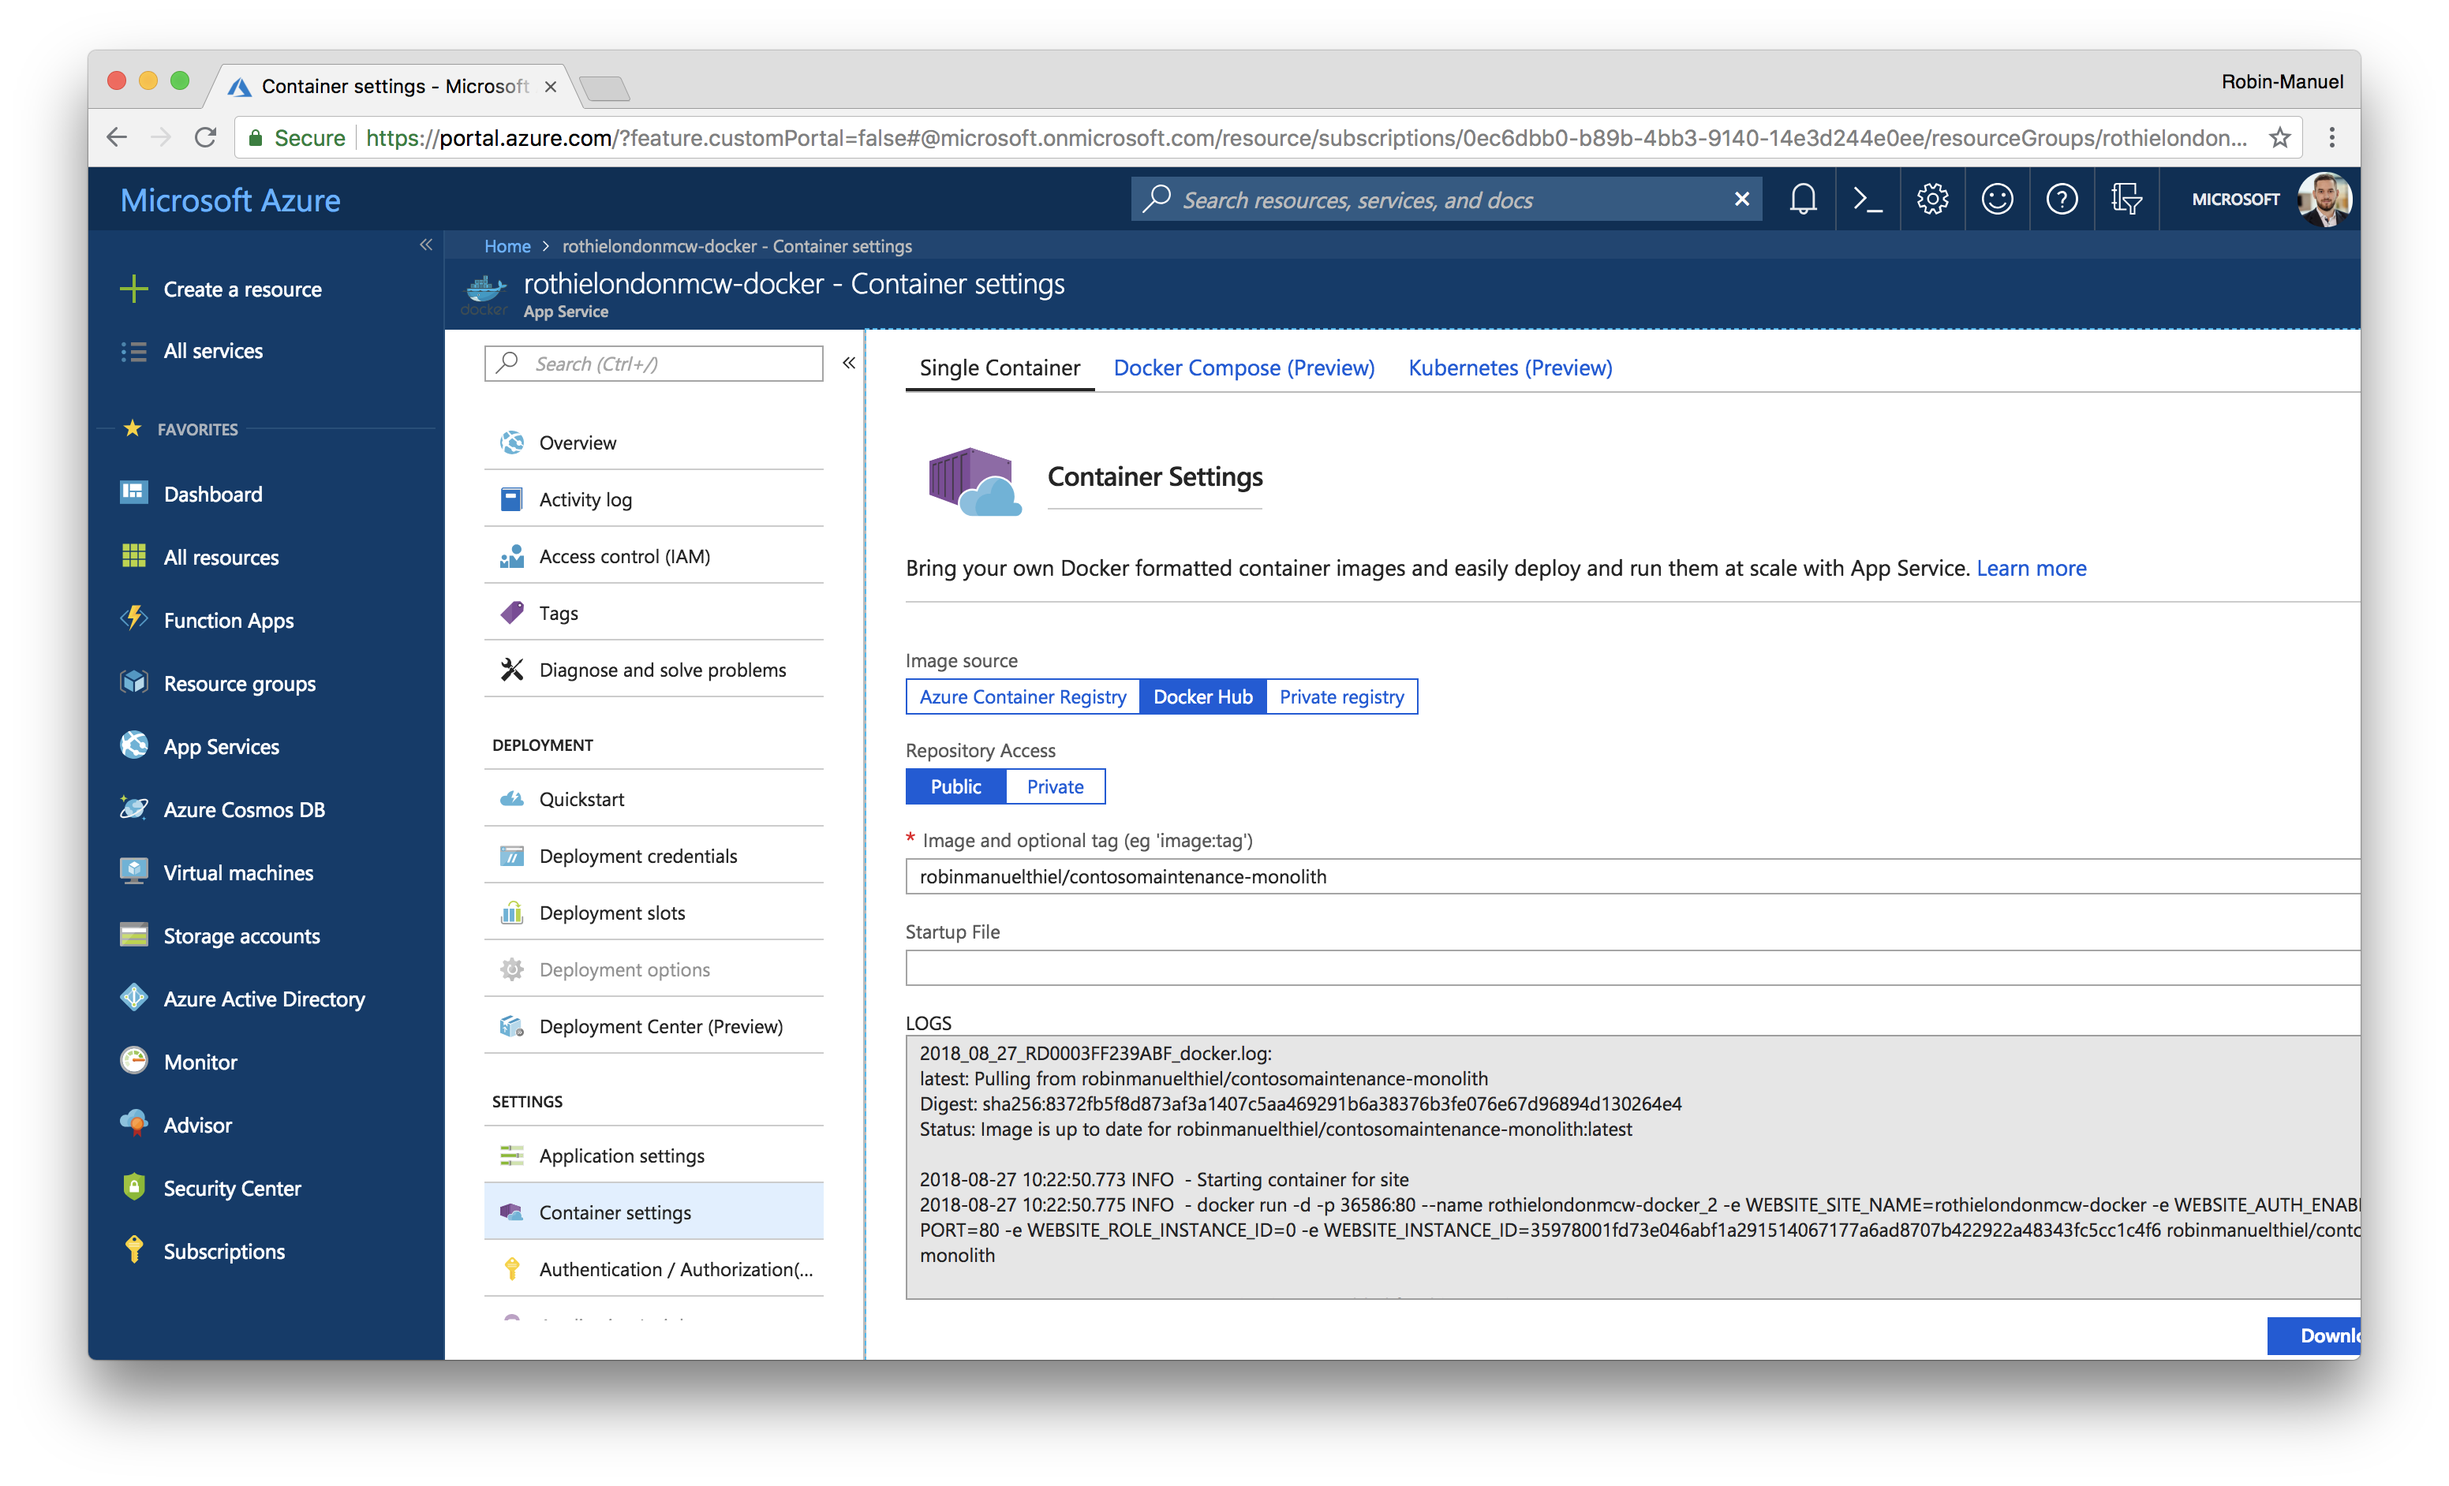
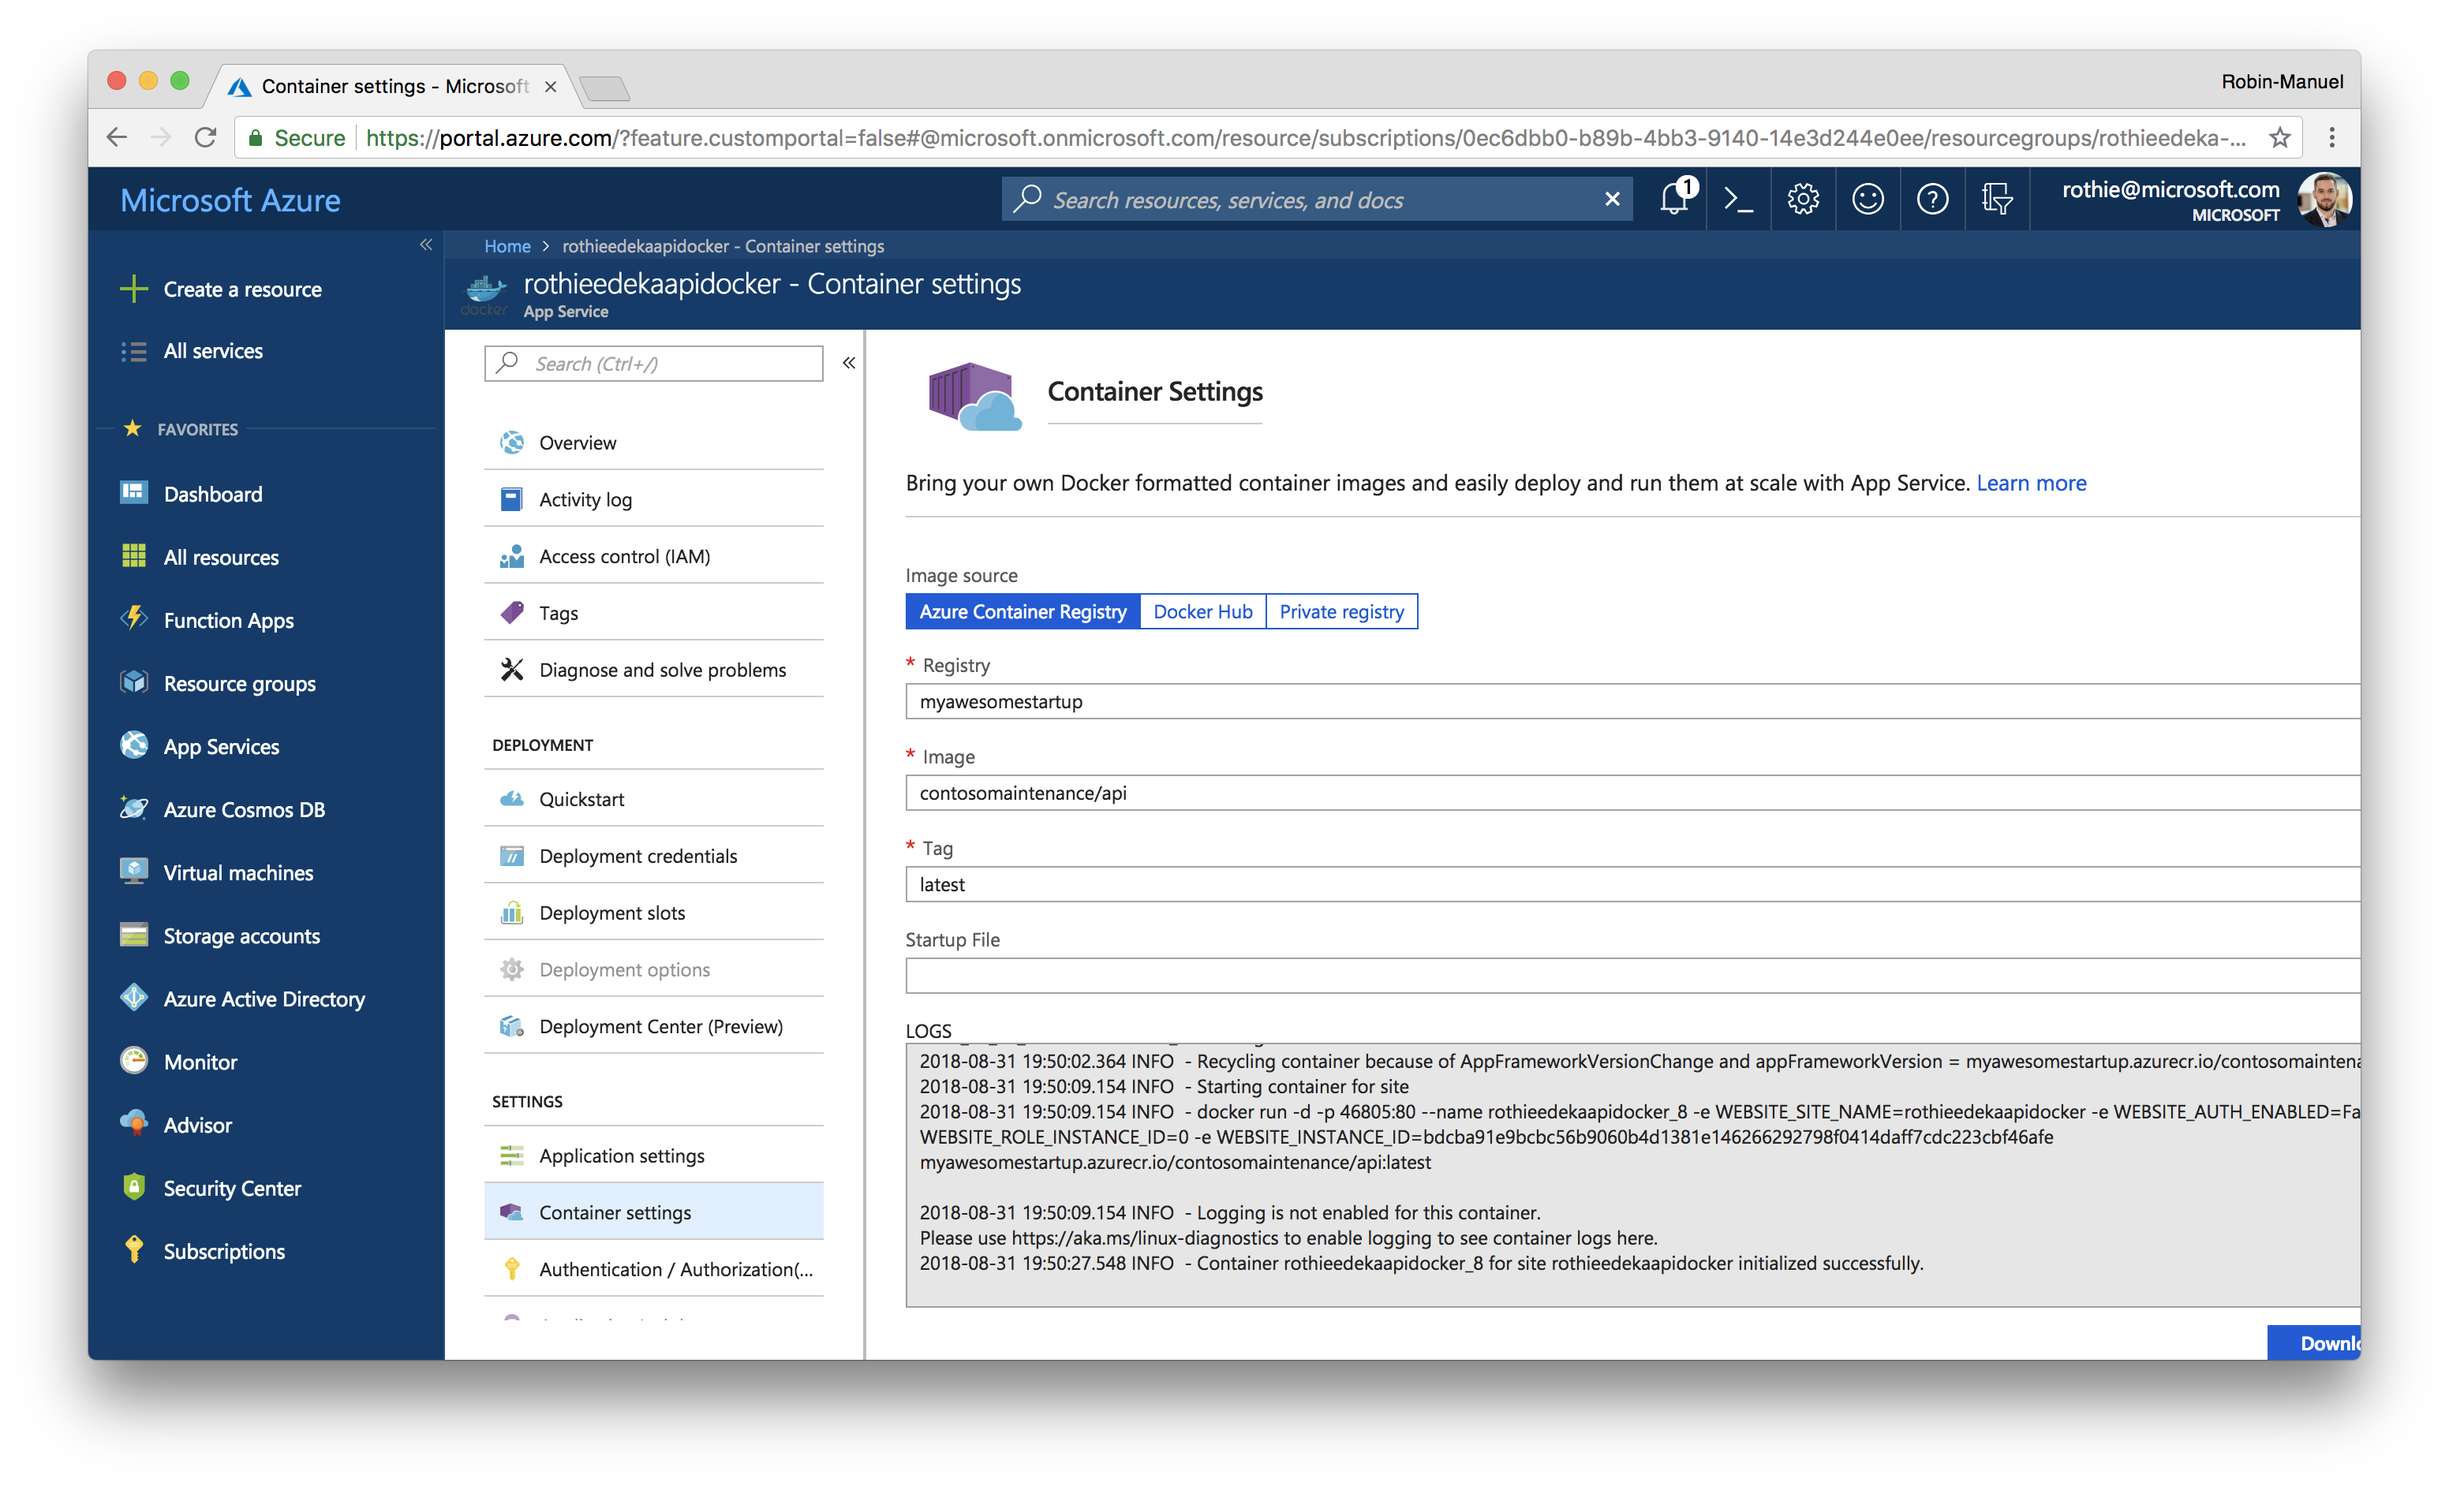
Add Azure Container Registry documentation

diff --git a/Walkthrough Guide/03 Web API/README.md b/Walkthrough Guide/03 Web API/README.md
@@ -100,11 +100,11 @@ Because my app name was: "myawesomestartupapi", the unique URL would be: `https:
 
 ## 3. Deploy your apps to App Service
 
-Azure App Service has many options for how to deploy our code. These include continuous integration, which can link to Visual Studio Team Services or GitHub. We could also use FTP to upload the project, but we're not animals, so we won't - let's use Visual Studio Code for that.
+Azure App Service has many options for how to deploy our code. These include continuous integration, which can link to Visual Studio Team Services or GitHub. We could also use FTP to upload the project, but we're not animals, so we won't.
 
-The good news is: The full ASP.NET Core WebAPI code for the backend logic is already written for us and is located in the `Backend/Monolithic` folder of the workshop. But before we can upload it to the cloud, we need to **compile** it to make it machine readable, or create a Docker image for it. We will go through both options during this module.
+The good news is: The full ASP.NET Core WebAPI code for the backend logic is already written for us and is located in the `Backend/Monolithic` folder of the workshop. But before we can upload it to the cloud, we need to **compile** it to make it machine readable, or **create a Docker image** for it. We will go through both options during this module.
 
-### 3.1 Compile or containerize the application
+### 3.1 Compile the application or use Docker
 
 #### Option 1: Compiling the code by yourself
 
@@ -132,15 +132,44 @@ Follow the process of selecting a Subscription and Web App to publish to, confir
 
 #### Option 2: Create and use a Docker image
 
-If you want to "containerize" the code, you can use the [`Dockerfile`](../Backend/Monolithic/Dockerfile), that comes with the ASP.NET Core project in the `Backend/Monolithic` folder of the workshop. It describes everything Docker needs, to create an image out of it.
 
-Right-click the `Monolithic` folder in Visual Studio Code and select ***Open in Terminal / Command Line***. The Terminal window in Visual Studio Code pops up and we can enter the command to compile the application.
+
+> **Hint:** If you just want to *use* containers, but want to skip the whole part of building a container, creating an Azure Container Registry and pushing the container to it, you can skip these steps and simple use the [`robinmanuelthiel/contosomaintenance-api`](https://hub.docker.com/r/robinmanuelthiel/contosomaintenance-api/) image from Docker Hub in the last step.
+
+To work with Docker images, you usually need a container registry to upload your containers to, so that cloud services can pull them from there. You can use the popular [Docker Hub](https://azure.microsoft.com/services/container-registry/), but Azure offers its own Azure Container Registry as well.
+
+![Create an Azure Container Registry](Assets/CreateAzureContainerRegistry.png)
+
+To create a new registry, open the [Azure Portal](https://portal.azure.com), click ***Create a resource***, ***Containers***, ***Container Registry*** and configure it like this:
+
+- **Registry Name:** `myawesomestartup` (or similar)
+- **Subscription:** *choose the one you created earlier*
+- **Resource group:** *choose the one you created earlier*
+- **Location:** *same as your App Service*
+- **Admin user:** Enable
+- **SKU:** Basic
+
+Click the ***Create*** button and wait until your Container Registry got provisioned.
+
+In the ***Keys*** section of your Container Registry, you will find important information, like **Registry Name**, **Login Server**, **Username** and **Password**, that you will need to tag and upload a Docker image to it.
+
+![Create an Azure Container Registry](Assets/AzureContainerRegistryKeys.png)
+
+In your Command Line, run the following command, to log into your freshly created Container Registry. Make sure, to replace `myawesomestartup.azurecr.io` with your **Login Server**.
 
 ```bash
-docker image build -t yourname/contosomaintenance-monolith:latest .
+docker login myawesomestartup.azurecr.io -u <username> -p <password>
 ```
 
-That triggers the creation process of the Docker image, based on the Dockerfile in the repository. During that process, the offical [.NET Core SDK Docker Image](https://hub.docker.com/r/microsoft/dotnet/) gets downloaded from Dockerhub and the code will be compiled in there. To verify, that the image got created successfully, you can list all images on your machine with the following command.
+To "containerize" the Backend code, you can use the [`Dockerfile`](../Backend/Monolithic/Dockerfile), that comes with the ASP.NET Core project in the `Backend/Monolithic` folder of the workshop. It describes everything Docker needs, to create an image out of it.
+
+Right-click the `Monolithic` folder in Visual Studio Code and select ***Open in Terminal / Command Line***. The Terminal window in Visual Studio Code pops up and we can enter the command to build the docker image.
+
+```bash
+docker image build -t myawesomestartup.azurecr.io/contosomaintenance/api:latest .
+```
+
+That triggers the creation process of the Docker image, based on the Dockerfile in the repository. During that process, the official [.NET Core SDK Docker Image](https://hub.docker.com/r/microsoft/dotnet/) gets downloaded from Dockerhub and the code will be compiled in there. To verify, that the image got created successfully, you can list all images on your machine with the following command.
 
 ```bash
 docker images
@@ -150,11 +179,19 @@ The output should contain your image.
 
 ![List of local Docker images](Assets/ListDockerImages.png)
 
-To deploy that image into your App Service now, you need to publish it to a Container Registry (like Dockerhub or Azure Container Registry), sothat your App Service can pull it from there. For the ease of use, we will use an [image, that we have already published](https://hub.docker.com/r/robinmanuelthiel/contosomaintenance-monolith/) for you now. But if you are interested, on how to publish your own image, you can read detials about that here: [Push images to Docker Cloud](https://docs.docker.com/docker-cloud/builds/push-images/).
+Now we can push the image do our Azure Container Registry with the following command.
 
-Now open the [Azure Portal](https://portal.azure.com) and navigate to your Docker based App Service, that you have created earlier. When you scroll down to the ***Container Settings*** on the left side, you can find a configuration for public images from Docker Hub. Here we can enter the name of our (or your own) image like [`robinmanuelthiel/contosomaintenance-monolith`](https://hub.docker.com/r/robinmanuelthiel/contosomaintenance-monolith/) and ***Save*** the settings.
+```bash
+docker push myawesomestartup.azurecr.io/contosomaintenance/api
+```
+
+Next, we open the [Azure Portal](https://portal.azure.com) and navigate to your Docker based App Service, that you have created earlier. When you scroll down to the ***Container Settings*** on the left side, you can find a configuration for image sources (like Azure Container Registry or Docker Hub).
 
 ![Select Container in App Service](Assets/SelectContainerAppService.png)
+
+Here we can connect to our Container Registry. Select our container and ***Save*** the settings.
+
+> **Hint:** You can enable ***Continuous Deployment*** at the bottom of the Container Settings, to update the application automatically, when a new version of your container gets pushed to the Container Registry.
 
 ### 3.2 Verify, your app is running
 
